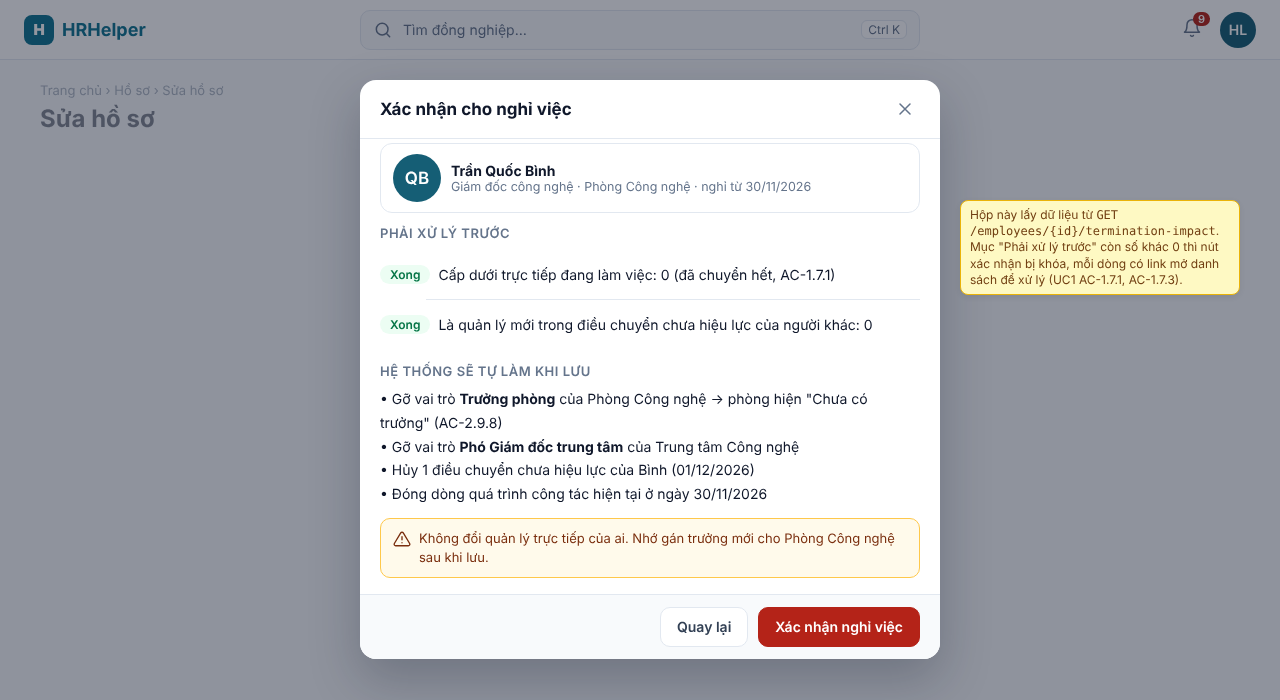
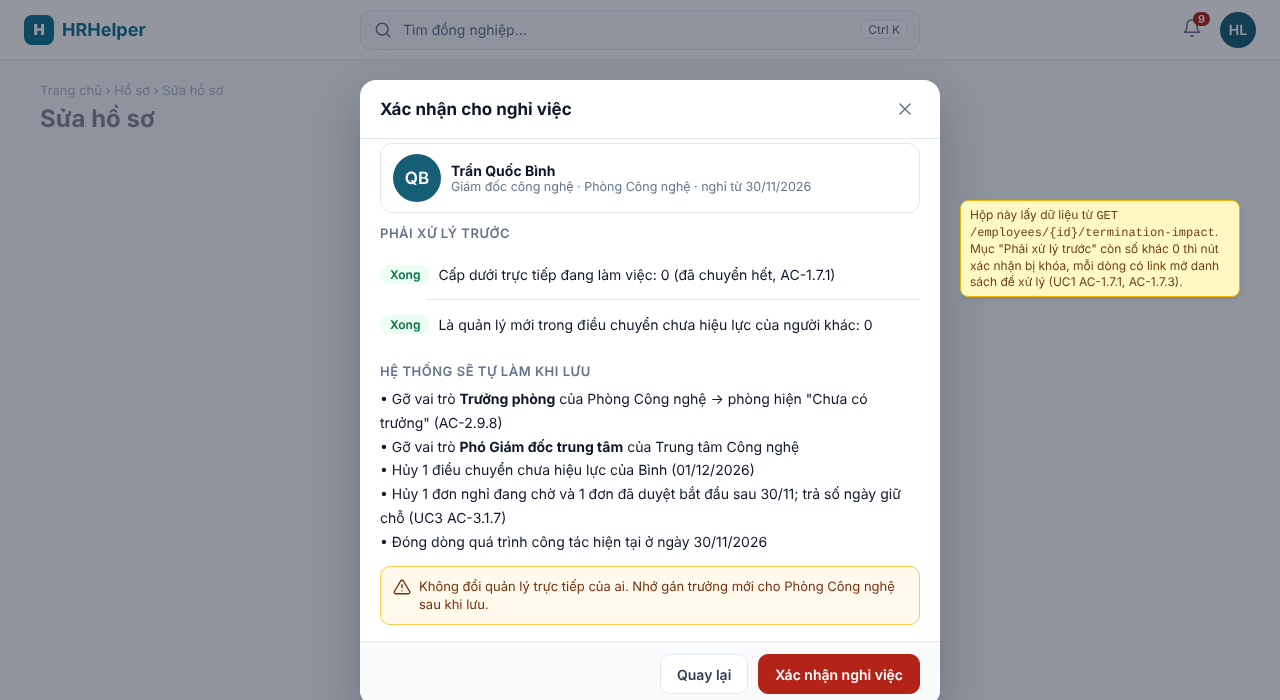
docs(uc3,uc4): bản vẽ đề nghị hủy, nghỉ theo sự kiện, số dư nhân viên, lịch nghỉ lễ
- 5 khung mới trong mockups.html (uc3-cancel-request, uc3-event-mobile,
  uc3-balances, uc4-cancel-request, uc4-holidays), ảnh trong thư mục UC.
- uc2-terminate: hộp xác nhận nghỉ việc nêu đơn nghỉ bị hủy (AC-3.1.7).
- spec 9.1 của UC3, UC4 và frontend.md 10.8 trỏ tới bản vẽ mới.

Claude-Session: https://claude.ai/code/session_01KbewUtDppyev3XAJ6XpKoy

Changed region(s): [[0.2812, 0.69, 0.75, 1.0], [0.75, 0.3, 0.9688, 0.45]]

diff --git a/docs/features/mockups/mockups.html b/docs/features/mockups/mockups.html
@@ -877,6 +877,7 @@ sup.c{background:var(--soft2);color:var(--primary);border-radius:4px;padding:0 4
         • Gỡ vai trò <b>Trưởng phòng</b> của Phòng Công nghệ → phòng hiện "Chưa có trưởng" (AC-2.9.8)<br>
         • Gỡ vai trò <b>Phó Giám đốc trung tâm</b> của Trung tâm Công nghệ<br>
         • Hủy 1 điều chuyển chưa hiệu lực của Bình (01/12/2026)<br>
+        • Hủy 1 đơn nghỉ đang chờ và 1 đơn đã duyệt bắt đầu sau 30/11; trả số ngày giữ chỗ (UC3 AC-3.1.7)<br>
         • Đóng dòng quá trình công tác hiện tại ở ngày 30/11/2026
       </div>
       <div class="alert w"><svg class="i"><use href="#alert"/></svg><span>Không đổi quản lý trực tiếp của ai. Nhớ gán trưởng mới cho Phòng Công nghệ sau khi lưu.</span></div>
@@ -1225,6 +1226,158 @@ sup.c{background:var(--soft2);color:var(--primary);border-radius:4px;padding:0 4
   </div>
   <div class="sbar"><span class="btn d">Từ chối</span><span class="btn p">Duyệt</span></div>
   <div class="note" style="top:520px;left:16px;max-width:350px">Điện thoại: danh sách là một trang, mỗi đơn mở trang chi tiết này; nút dính đáy. Bấm "Từ chối" khi chưa có ghi chú thì không gửi request, báo lỗi ở ô (AC-0.6.3).</div>
+</div>
+
+<!-- ================= UC3, UC4: thiết kế 18/11/2026 ================= -->
+<div class="frame desk" id="uc3-cancel-request" style="height:760px">
+  <div class="nav">
+    <div class="logo"><b>H</b>HRHelper</div>
+    <div class="search"><svg class="i"><use href="#search"/></svg>Tìm đồng nghiệp…<span class="kbd">Ctrl K</span></div>
+    <div class="navr"><span class="bell"><svg class="i"><use href="#bell"/></svg><i>5</i></span><span class="av">AN</span></div>
+  </div>
+  <div class="page" style="opacity:.5">
+    <div class="crumb">Trang chủ › Đơn nghỉ của tôi</div>
+    <div class="hdr"><h1>Đơn nghỉ của tôi</h1></div>
+    <div class="box" style="margin-top:14px;height:420px"></div>
+  </div>
+  <div class="dim"></div>
+  <div class="modal" style="top:80px;left:330px;width:620px">
+    <div class="mh">Đề nghị hủy đơn đã duyệt<span class="x"><svg class="i"><use href="#x"/></svg></span></div>
+    <div class="mb">
+      <div class="kv2" style="margin-top:0"><span class="k">Đơn</span><span>Phép năm · Thứ Hai 07/12 → Thứ Tư 09/12/2026 · 3 ngày</span><span class="k">Trạng thái</span><span><span class="badge ok">Đã duyệt</span> bởi Nguyễn Minh Khoa, 20/11</span><span class="k">Người xác nhận</span><span>Nguyễn Minh Khoa (quản lý trực tiếp) hoặc HR</span></div>
+      <label class="l">Lý do đề nghị hủy *</label>
+      <div class="ta" style="height:64px;color:var(--text)">Dự án dời lịch demo khách hàng sang tuần 7/12, em cần đi làm.<span style="float:right;color:var(--muted);font-size:12px;margin-top:22px">58/500</span></div>
+      <div class="alert i"><svg class="i"><use href="#info"/></svg><span>Đơn <b>vẫn là Đã duyệt</b> và vẫn giữ 3 ngày phép cho tới khi quản lý hoặc HR đồng ý hủy. Phải được xử lý trước ngày 07/12; tới ngày đó đề nghị hết hạn.</span></div>
+    </div>
+    <div class="mf"><span class="btn g">Không gửi</span><span class="btn p">Gửi đề nghị hủy</span></div>
+  </div>
+  <div class="note" style="top:470px;left:330px;max-width:620px">Nút "Đề nghị hủy" ở chi tiết đơn chỉ hiện khi API trả <code>canRequestCancel</code> (đơn Đã duyệt, trước ngày bắt đầu, chưa có đề nghị). Gửi <code>POST /leave-requests/{id}/cancel-request {version, reason}</code> (UC3 A6, AC-3.6.6). Sau khi gửi, chi tiết đơn hiện dải tím "Đã đề nghị hủy 21/11 · chờ quản lý xác nhận" thay cho nút.</div>
+  <div class="note" style="top:610px;left:330px;max-width:620px">Đơn thai sản, không lương dài (đã qua HR duyệt, BR-16): dòng "Người xác nhận" ghi "HR". Bị bác thì lịch sử có dòng "Quản lý giữ đơn" kèm ghi chú, nút hiện lại (AC-3.6.7).</div>
+</div>
+
+<div class="frame mob" id="uc3-event-mobile" style="height:960px">
+  <div class="spbar"><svg class="i"><use href="#back"/></svg>Đăng ký nghỉ</div>
+  <div class="mpage" style="padding-top:6px">
+    <label class="l">Loại nghỉ *</label><div class="input f">Nghỉ cưới (bản thân)<span class="dn">▾</span></div>
+    <div class="hint" style="margin-top:4px">Tối đa 3 ngày làm việc cho một lần kết hôn; không trừ phép năm.</div>
+    <label class="l">Ngày đăng ký kết hôn *</label><div class="input">05/12/2026</div>
+    <div class="fg" style="gap:0 10px"><div><label class="l">Từ ngày *</label><div class="input">04/12/2026</div></div><div><label class="l">Đến ngày *</label><div class="input">08/12/2026</div></div></div>
+    <div class="calc" style="margin-top:8px"><b class="n">3</b> ngày làm việc (bỏ T7 05/12, CN 06/12)</div>
+    <div class="alert w"><svg class="i"><use href="#alert"/></svg><span>Nộp giấy chứng nhận đăng ký kết hôn cho HR khi đi làm lại; HR kiểm trước khi hoàn tất đơn.</span></div>
+    <div class="alert e"><svg class="i"><use href="#alert"/></svg><span><b>Đã có đơn nghỉ cưới</b> cho ngày kết hôn 05/12/2026 (đang chờ duyệt). Mỗi sự kiện chỉ một đơn.</span></div>
+  </div>
+  <div class="sbar"><span class="btn p">Gửi đơn</span></div>
+  <div class="note" style="top:640px;left:16px;max-width:350px">Ô ngày sự kiện chỉ hiện với loại <code>requiresEventDate</code> (cưới, con cưới, tang, sinh con); tên ô đổi theo loại. Vượt mức → 400 (E12), trùng sự kiện → 409 (E13), AC-3.1.4, AC-3.2.6.</div>
+  <div class="note" style="top:770px;left:16px;max-width:350px">Đơn phép năm qua hai năm: dòng tính ngày ghi "3 ngày năm 2026 + 2 ngày năm 2027", mỗi năm phải đủ số dư (A5).</div>
+</div>
+
+<div class="frame desk" id="uc3-balances" style="height:780px">
+  <div class="nav">
+    <div class="logo"><b>H</b>HRHelper</div>
+    <div class="search"><svg class="i"><use href="#search"/></svg>Tìm đồng nghiệp…<span class="kbd">Ctrl K</span></div>
+    <div class="navr"><span class="bell"><svg class="i"><use href="#bell"/></svg><i>9</i></span><span class="av alt2">HL</span></div>
+  </div>
+  <div class="page">
+    <div class="crumb">Trang chủ › Nghỉ phép › Số dư nhân viên</div>
+    <div class="hdr"><h1>Số dư nhân viên</h1></div>
+    <div class="fbar"><div class="pick" style="width:320px"><span class="av xs" style="margin-right:8px">AN</span>Nguyễn Văn An · NV00123</div><div class="pick" style="width:140px">Năm 2026</div><span class="mut" style="margin-left:auto;font-size:13px">Vào làm 16/07/2019 · đủ 5 năm 16/07/2024</span></div>
+    <div style="display:grid;grid-template-columns:1fr 400px;gap:20px;margin-top:6px">
+      <div class="box">
+        <table class="tbl">
+          <tr><th>Loại</th><th>Cách tính</th><th>Được hưởng</th><th>Đã dùng</th><th>Đang chờ</th><th>Còn lại</th><th></th></tr>
+          <tr class="sel"><td>Phép năm</td><td>Mức nền 12 + 1 thâm niên, đủ 12 tháng</td><td>13,00</td><td>3,00</td><td>2,00</td><td><b>8,00</b></td><td><span class="lnk">Sửa</span></td></tr>
+          <tr><td>Nghỉ ốm</td><td><span class="badge w">Mặc định</span> chưa xác minh BHXH</td><td>30,00</td><td>1,50</td><td>0,00</td><td><b>28,50</b></td><td><span class="lnk">Sửa</span></td></tr>
+          <tr><td>Nghỉ không lương</td><td>Chính sách công ty</td><td>30,00</td><td>0,00</td><td>5,00</td><td><b>25,00</b></td><td><span class="lnk">Sửa</span></td></tr>
+          <tr class="off"><td colspan="7">Nghỉ theo sự kiện (cưới, tang, sinh con) không có số dư: tính theo từng sự kiện.</td></tr>
+        </table>
+      </div>
+      <div class="box" style="padding:4px 20px 18px">
+        <h3 style="margin:14px 0 0;font-size:16px">Sửa phép năm 2026</h3>
+        <label class="l">Mức nền theo điều kiện lao động *</label>
+        <div class="seg"><span class="on">12 ngày</span><span>14 ngày</span><span>16 ngày</span></div>
+        <div class="hint" style="margin-top:4px">14, 16 ngày: công việc nặng nhọc, độc hại, nguy hiểm theo danh mục (BLLĐ Điều 113).</div>
+        <div class="calc" style="margin-top:10px">Được hưởng tính lại: <b class="n">13,00</b><br><span class="mut" style="font-size:13px">(12 + 1 thâm niên) / 12 × 12 tháng</span></div>
+        <label class="l">Ghi chú *</label>
+        <div class="ta" style="height:52px">Căn cứ hồ sơ…</div>
+        <div style="display:flex;justify-content:flex-end;margin-top:12px"><span class="btn p">Lưu</span></div>
+      </div>
+    </div>
+  </div>
+  <div class="note" style="top:540px;left:40px;max-width:560px">Chỉ HR, URL <code>/leave/balances</code> (FR-3.8). Phép năm không cho sửa thẳng "Được hưởng", chỉ chọn mức nền; hệ thống tính lại theo UC3 13.2. Nghỉ ốm, không lương: ô số "Hạn mức năm" thay cho mức nền; nhỏ hơn đã dùng + đang chờ thì 409 (AC-3.8.2).</div>
+  <div class="note" style="top:540px;left:640px;max-width:400px">Ghi chú chỉ HR thấy, lưu ở dòng số dư, không vào audit. Mỗi lần lưu có audit giá trị cũ và mới (AC-3.8.1).</div>
+</div>
+
+<div class="frame desk" id="uc4-cancel-request" style="height:860px">
+  <div class="nav">
+    <div class="logo"><b>H</b>HRHelper</div>
+    <div class="search"><svg class="i"><use href="#search"/></svg>Tìm đồng nghiệp…<span class="kbd">Ctrl K</span></div>
+    <div class="navr"><span class="bell"><svg class="i"><use href="#bell"/></svg><i>3</i></span><span class="av alt">MK</span></div>
+  </div>
+  <div class="page">
+    <div class="crumb">Trang chủ › Việc cần duyệt</div>
+    <h1>Việc cần duyệt</h1>
+    <div class="fbar"><div class="pick" style="width:200px">Người gửi: Tất cả</div><div class="pick" style="width:200px">Loại: Tất cả</div><span class="mut" style="margin-left:auto;font-size:13px">2 đơn chờ · 1 đề nghị hủy</span></div>
+    <div class="split" style="margin-top:0">
+      <div class="list">
+        <div class="li sel"><span class="av md" style="width:36px;height:36px;font-size:13px">AN</span><div>Nguyễn Văn An<small>Phép năm · 07/12 – 09/12 · 3 ngày</small></div><div class="age">21/11 09:12<br><span class="badge" style="background:#EDE9FE;color:#6D28D9">Đề nghị hủy</span></div></div>
+        <div class="li"><span class="av md alt" style="width:36px;height:36px;font-size:13px">TN</span><div>Nguyễn Thị Ngọc<small>Nghỉ ốm · 23/11 · 1 ngày</small></div><div class="age">23/11 07:05<br><span class="badge w">Chờ duyệt</span></div></div>
+        <div class="li"><span class="av md alt2" style="width:36px;height:36px;font-size:13px">PD</span><div>Hồ Phúc Đạt<small>Phép năm · 30/11 · 1 ngày</small></div><div class="age">20/11 16:40<br><span class="badge no">Quá hạn</span></div></div>
+      </div>
+      <div class="det">
+        <div style="display:flex;align-items:center"><h3>Nguyễn Văn An · Phép năm · 3 ngày</h3><span class="badge ok" style="margin-left:auto">Đã duyệt</span></div>
+        <div class="alert" style="background:#F5F3FF;border-color:#DDD6FE;color:#4C1D95;margin-top:8px"><svg class="i"><use href="#info"/></svg><span><b>An đề nghị hủy đơn này</b> (21/11 09:12): "Dự án dời lịch demo khách hàng sang tuần 7/12, em cần đi làm." Hạn xử lý: trước 07/12/2026.</span></div>
+        <div class="kv2"><span class="k">Ngày nghỉ</span><span>Thứ Hai 07/12 → Thứ Tư 09/12/2026</span><span class="k">Nếu đồng ý hủy</span><span>Trả 3 ngày phép năm 2026 cho An</span></div>
+        <div class="h4">Lịch sử</div>
+        <div class="tl">
+          <div class="ti"><b>Đề nghị hủy</b><small>21/11 09:12 · Nguyễn Văn An</small></div>
+          <div class="ti ok"><b>Đã duyệt</b><small>20/11 10:30 · Nguyễn Minh Khoa</small></div>
+          <div class="ti"><b>Đã gửi</b><small>19/11 14:00 · Nguyễn Văn An</small></div>
+        </div>
+        <label class="l">Ghi chú (bắt buộc khi giữ đơn)</label>
+        <div class="ta" style="height:48px">Nhập ghi chú cho An…</div>
+        <div style="display:flex;gap:10px;justify-content:flex-end"><span class="btn g">Giữ đơn</span><span class="btn d">Đồng ý hủy</span></div>
+      </div>
+    </div>
+  </div>
+  <div class="note" style="top:740px;left:40px;max-width:420px">Đề nghị hủy nằm chung tab "Đơn nghỉ", nhãn tím, không thêm tab (UC4 13.4). Đơn đã qua HR duyệt thêm (BR-16) chỉ hiện ở danh sách của HR; quản lý không thấy nút (AC-4.5.6).</div>
+  <div class="note" style="top:740px;left:480px;max-width:400px">"Đồng ý hủy": <code>POST …/cancel-request/approve</code>; "Giữ đơn": <code>…/reject</code>, ghi chú bắt buộc. Gửi kèm <code>version</code>.</div>
+  <div class="note" style="top:740px;left:900px;max-width:360px">Tới ngày 07/12 chưa xử lý: nhãn đổi "Hết hạn", hai nút khóa (AC-4.5.7).</div>
+</div>
+
+<div class="frame desk" id="uc4-holidays" style="height:780px">
+  <div class="nav">
+    <div class="logo"><b>H</b>HRHelper</div>
+    <div class="search"><svg class="i"><use href="#search"/></svg>Tìm đồng nghiệp…<span class="kbd">Ctrl K</span></div>
+    <div class="navr"><span class="bell"><svg class="i"><use href="#bell"/></svg><i>9</i></span><span class="av alt2">HL</span></div>
+  </div>
+  <div class="page">
+    <div class="crumb">Trang chủ › Nghỉ phép › Lịch nghỉ lễ</div>
+    <div class="hdr"><h1>Lịch nghỉ lễ</h1><div class="acts"><span class="btn p"><svg class="i"><use href="#plus"/></svg>Thêm ngày</span></div></div>
+    <div class="fbar"><div class="pick" style="width:140px">Năm 2026</div></div>
+    <div style="display:grid;grid-template-columns:420px 1fr;gap:20px;margin-top:6px">
+      <div class="box">
+        <table class="tbl">
+          <tr><th>Ngày</th><th>Tên</th><th>Loại</th><th></th></tr>
+          <tr><td>30/04</td><td>Giải phóng miền Nam</td><td>Lễ</td><td><span class="lnk">Xóa</span></td></tr>
+          <tr><td>01/05</td><td>Quốc tế Lao động</td><td>Lễ</td><td><span class="lnk">Xóa</span></td></tr>
+          <tr class="sel"><td>04/05</td><td>Nghỉ bù 02/05</td><td><span class="badge p">Nghỉ bù</span></td><td><span class="lnk">Xóa</span></td></tr>
+          <tr><td>02/09</td><td>Quốc khánh</td><td>Lễ</td><td><span class="lnk">Xóa</span></td></tr>
+        </table>
+      </div>
+      <div class="box" style="padding:4px 20px 18px">
+        <h3 style="margin:14px 0 4px;font-size:16px">Đơn bị ảnh hưởng (3)</h3>
+        <div class="hint">Đơn đã gửi không tự đổi (BR-19). Tính lại từng đơn, có lý do; trạng thái và quyết định duyệt giữ nguyên.</div>
+        <table class="tbl" style="margin-top:8px">
+          <tr><th>Nhân viên</th><th>Ngày nghỉ</th><th>Trạng thái</th><th>Đã lưu</th><th>Tính lại</th><th></th></tr>
+          <tr><td>Nguyễn Văn An</td><td>29/04 – 04/05</td><td><span class="badge ok">Đã duyệt</span></td><td>2</td><td><b>1</b></td><td><span class="btn o" style="height:30px">Tính lại</span></td></tr>
+          <tr><td>Lý Thanh Hằng</td><td>04/05 – 06/05</td><td><span class="badge w">Chờ duyệt</span></td><td>3</td><td><b>2</b></td><td><span class="btn o" style="height:30px">Tính lại</span></td></tr>
+          <tr><td>Hồ Phúc Đạt</td><td>04/05</td><td><span class="badge ok">Đã duyệt</span></td><td>1</td><td><b style="color:var(--danger)">0</b></td><td><span class="mut" style="font-size:12.5px">Cả đơn thành ngày nghỉ: HR hủy theo luồng khác</span></td></tr>
+        </table>
+      </div>
+    </div>
+  </div>
+  <div class="note" style="top:560px;left:40px;max-width:420px">Chỉ HR, URL <code>/leave/holidays</code> (FR-4.9). Thêm, xóa ngày gọi <code>POST /leave-holidays</code>, <code>DELETE /leave-holidays/{date}</code>; API trả số đơn bị ảnh hưởng. Nên nhập lịch năm sau trước 1/12.</div>
+  <div class="note" style="top:560px;left:480px;max-width:520px">"Tính lại" hỏi lý do rồi gọi <code>POST /leave-requests/{id}/recalculate</code>. Số ngày tăng mà thiếu số dư → 409, giữ đơn (AC-4.9.3). Chủ đơn nhận email chung.</div>
 </div>
 
 <!-- ================= UC5 + UC6: Tra cứu tài liệu ================= -->

diff --git a/docs/features/mockups/render.js b/docs/features/mockups/render.js
@@ -21,6 +21,7 @@ const ids = ['home', 'home-hr', 'search', 'quickview', 'profile-desktop', 'profi
   'uc2-positions', 'uc2-org-mobile', 'uc2-career-mobile', 'uc3-new',
   'uc3-new-mobile', 'uc3-list', 'uc3-detail-mobile', 'uc4-manager',
   'uc4-hr', 'uc4-complete', 'uc4-delegation', 'uc4-mobile',
+  'uc3-cancel-request', 'uc3-event-mobile', 'uc3-balances', 'uc4-cancel-request', 'uc4-holidays',
   'uc56-documents', 'uc6-search', 'uc6-assistant', 'uc5-detail',
   'uc5-manage', 'uc5-upload', 'uc56-mobile', 'uc7-audit'];
 (async () => {

diff --git a/docs/features/frontend.md b/docs/features/frontend.md
@@ -321,8 +321,8 @@ Bản vẽ màn hình riêng của từng UC nằm ở mục 9.1 trong `spec.md`
 | UC | Màn hình đã vẽ | Ở đâu |
 |---|---|---|
 | UC2 | Danh bạ, sơ đồ tổ chức, sửa phòng ban (trưởng, phó phòng), điều chuyển, chức danh; phòng ban và quá trình công tác trên điện thoại | [UC2 spec 9.1](UC2-organization/spec.md#91-bản-vẽ-giao-diện) |
-| UC3 | Đăng ký nghỉ, đơn nghỉ của tôi và chi tiết; form và hủy đơn trên điện thoại | [UC3 spec 9.1](UC3-create-leave-request/spec.md#91-bản-vẽ-giao-diện) |
-| UC4 | Quản lý duyệt (không có tab), HR duyệt thêm, HR hoàn tất, phân công duyệt thay; duyệt trên điện thoại | [UC4 spec 9.1](UC4-approve-leave-request/spec.md#91-bản-vẽ-giao-diện) |
+| UC3 | Đăng ký nghỉ, đơn nghỉ của tôi và chi tiết; form và hủy đơn trên điện thoại; đề nghị hủy đơn đã duyệt, nghỉ theo sự kiện, HR chỉnh số dư `/leave/balances` (18/11) | [UC3 spec 9.1](UC3-create-leave-request/spec.md#91-bản-vẽ-giao-diện) |
+| UC4 | Quản lý duyệt (không có tab), HR duyệt thêm, HR hoàn tất, phân công duyệt thay; duyệt trên điện thoại; đề nghị hủy trong tab Đơn nghỉ, lịch nghỉ lễ `/leave/holidays` (18/11) | [UC4 spec 9.1](UC4-approve-leave-request/spec.md#91-bản-vẽ-giao-diện) |
 | UC5 | Trang "Tra cứu tài liệu", chi tiết và phiên bản, quản lý tài liệu, đăng tài liệu; điện thoại | [UC5 spec 9.1](UC5-document-repository/spec.md#91-bản-vẽ-giao-diện) |
 | UC6 | Kết quả tìm tài liệu, trợ lý chính sách có trích dẫn | [UC6 spec 9.1](UC6-self-service-search/spec.md#91-bản-vẽ-giao-diện) |
 | UC7 | Lịch sử thao tác: bộ lọc, bảng, chi tiết một dòng | [UC7 spec 9.1](UC7-audit-log/spec.md#91-bản-vẽ-giao-diện) |
@@ -330,7 +330,9 @@ Bản vẽ màn hình riêng của từng UC nằm ở mục 9.1 trong `spec.md`
 Điểm cần duyệt trong bản vẽ (đề xuất, chưa có trong spec):
 
 - **Phân công duyệt thay** là trang `/approvals/delegations`, vào từ nút trên trang "Việc cần duyệt" của HR, không thêm ô ở trang
-  chủ. API cho UC4 FR-4.3 chưa có.
+  chủ. API ở UC4 spec 9.3 (thiết kế 18/11).
+- **Trang HR mới cho nghỉ phép** (18/11): `/leave/balances` (số dư nhân viên) và `/leave/holidays` (lịch nghỉ lễ), vào từ menu
+  "Nghỉ phép" của HR. Đề nghị hủy không thêm tab ở "Việc cần duyệt", nằm chung tab Đơn nghỉ với nhãn tím.
 - **Đơn nghỉ trùng ngày trong nhóm** hiện cho quản lý khi duyệt (chỉ tên và ngày) như mục 2.4 đã ghi; cần API trả danh sách này.
 - **Số ngày tính sẵn ở trình duyệt** trên form đăng ký nghỉ, cùng quy tắc BR-03; backend vẫn là nơi quyết định.
 - **Sơ đồ tổ chức trên điện thoại** đi từng cấp phòng ban thay vì vẽ cây.

diff --git a/docs/features/UC3-create-leave-request/spec.md b/docs/features/UC3-create-leave-request/spec.md
@@ -173,6 +173,20 @@ mẫu. Ô vàng là ghi chú cho người đọc. Chỗ nào bản vẽ khác ch
 |---|---|
 | ![Đăng ký nghỉ trên điện thoại](mockups/uc3-new-mobile.png) | ![Xác nhận hủy đơn](mockups/uc3-detail-mobile.png) |
 
+**Bản vẽ thêm 18/11/2026 (thiết kế mục 13)**
+
+Đề nghị hủy đơn đã duyệt (A6, AC-3.6.6):
+
+![Đề nghị hủy đơn đã duyệt](mockups/uc3-cancel-request.png)
+
+HR xem, chỉnh số dư nhân viên `/leave/balances` (FR-3.8):
+
+![Số dư nhân viên](mockups/uc3-balances.png)
+
+| Nghỉ theo sự kiện, có ngày sự kiện (AC-3.1.4, AC-3.2.6) |
+|---|
+| ![Đăng ký nghỉ cưới](mockups/uc3-event-mobile.png) |
+
 ### 9.2 Sơ đồ luồng
 
 Bấm "Chạy" để xem từng bước: [`flows/flows.html`](flows/flows.html). Ảnh PNG nằm cùng thư mục, xuất lại bằng `flows/render.js`

diff --git a/docs/features/UC4-approve-leave-request/spec.md b/docs/features/UC4-approve-leave-request/spec.md
@@ -195,6 +195,14 @@ mẫu. Ô vàng là ghi chú cho người đọc. Chỗ nào bản vẽ khác ch
 
 ![Duyệt đơn trên điện thoại](mockups/uc4-mobile.png)
 
+**Đề nghị hủy trong tab "Đơn nghỉ" (A7, 13.4; thêm 18/11/2026)**
+
+![Xác nhận hoặc bác đề nghị hủy](mockups/uc4-cancel-request.png)
+
+**HR quản lý lịch nghỉ lễ và tính lại đơn `/leave/holidays` (A9, FR-4.9, 13.6; thêm 18/11/2026)**
+
+![Lịch nghỉ lễ và đơn bị ảnh hưởng](mockups/uc4-holidays.png)
+
 ### 9.2 Sơ đồ luồng
 
 Bấm "Chạy" để xem từng bước: [`flows/flows.html`](flows/flows.html). Ảnh PNG nằm cùng thư mục, xuất lại bằng `flows/render.js`
